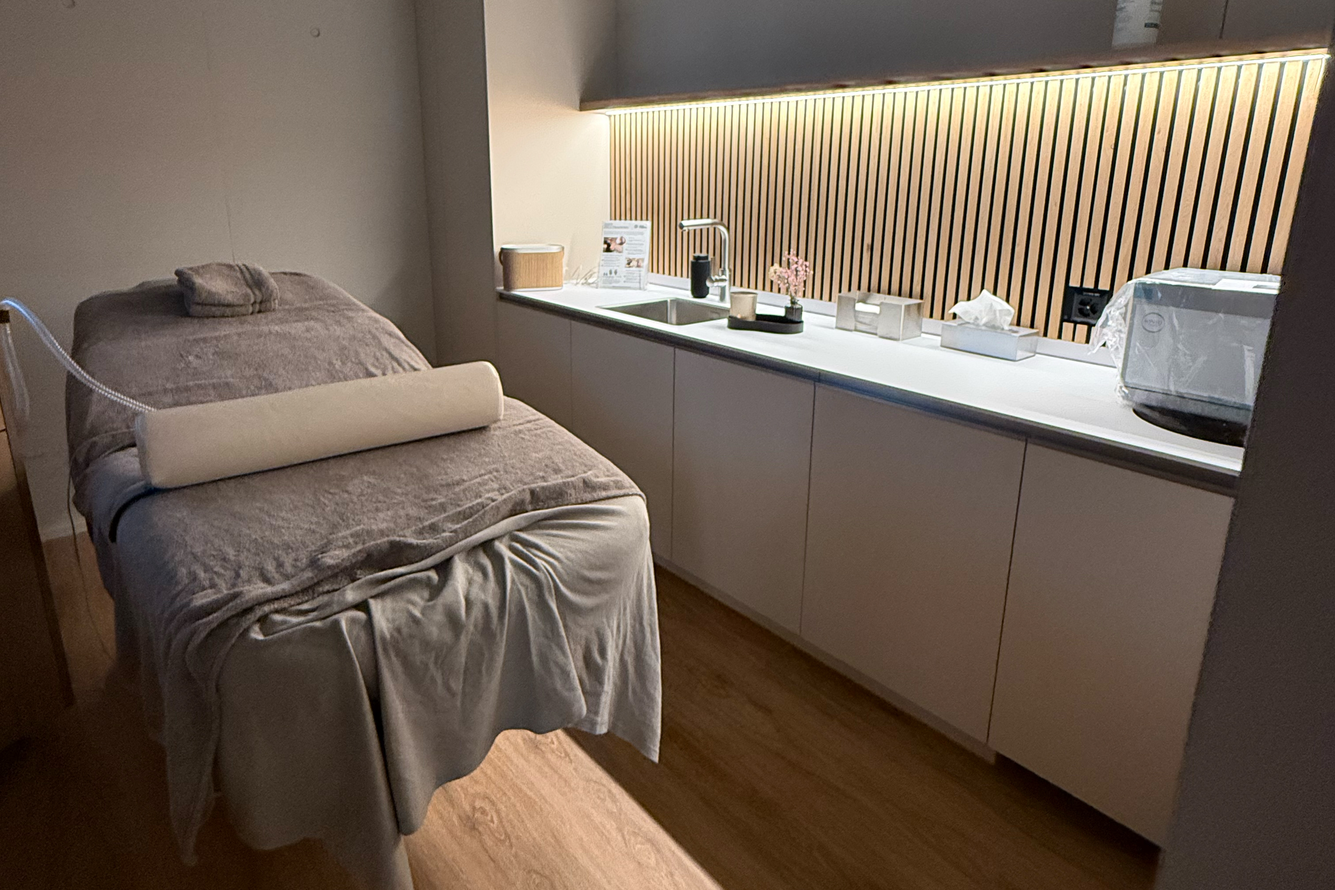
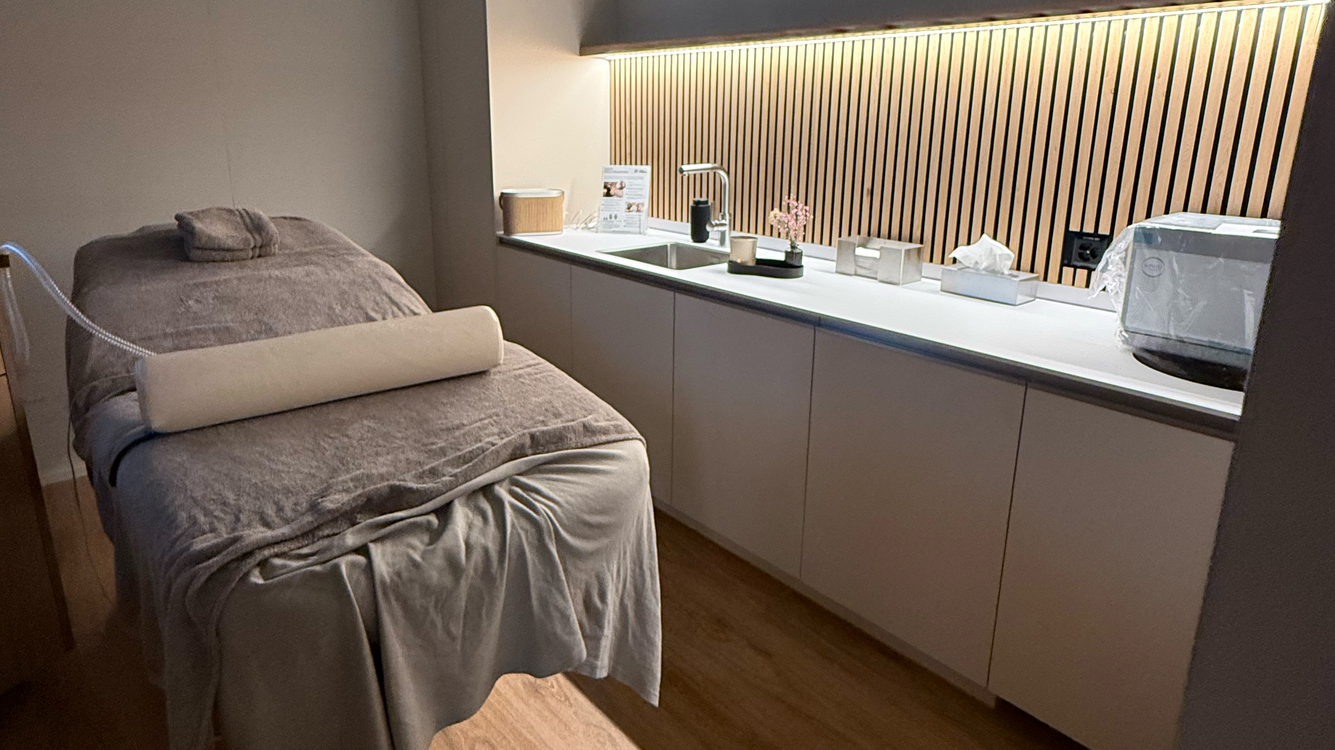
Optimierungen

diff --git a/index.html b/index.html
@@ -18,19 +18,18 @@
 
     <main class="page">
       <article class="container">
-        <!-- Audio-Teaser (zuoberst, vor der Oberzeile, OPTIONAL) -->
+        <!-- Audio-Teaser -->
         <!-- Audio-Beitrag -->
         <div class="audio-card content-block">
           <h3 class="audio-label">Anmoderation</h3>
           <audio class="audio" controls preload="metadata">
             <source src="assets/audio/Anmoderation_02.mp3" type="audio/mpeg"/>
-            Dein Browser unterstützt das Audio-Element nicht. 
+            Dein Browser unterstützt das Audio-Element nicht. Das Transkript befindet sich zuunterst auf der Seite.
           </audio>
         </div>
         <!-- Ende - Audio-Beitrag -->
         <!-- Ende - Audio-Teaser -->
 
-        <!-- !!! FIX !!! Reihenfolge der Inhalte im content-header bis inkl. erstem Textblock ist vorgegeben !!! FIX !!! -->
         <!-- Content-Header -->
         <header class="content-header">
           <!-- Oberzeile -->
@@ -50,15 +49,9 @@
           <!-- Autor:innenzeile-->
           <p class="author-line content-block">
             Ein Beitrag von <span class="author-name">Elena Ryser</span> und <span class="author-name">Cátia Mata Guerreiro</span>,
-            <time datetime="2026-02-13">27.04.2026</time>
+            <time datetime="2026-05-03">03.05.2026</time>
           </p>
           <!-- Ende - Autor:innenzeile-->
-
-          <!--<p class="content-block">
-            XXXXXXXXXXXXXXXXXXXXXXXXXXXXXXXXXXXXXXXXXXXXXXXXXXXXXXXXXXXXXXXXXXXXXXXXXXXXXXXXXXXXXXXXXXXXXXXXX
-            XXXXXXXXXXXXXXXXXXXXXXXXXXXXXXXXXXXXXXXXXXXXXXXXXXXXXXXXXXXXXXXXXXXXXXXXXXXXXXXXXXXXXXXXXXXXXXXX
-            XXXXXXXXXXXXXXXXXXXXXXXXXXXXXXXXXXXXXXXXXXXXXXXXXXXXXXXXXXXXXXXXXXXXXXXXXXXXXXXXXXXXXXXXXXXXXXXXX
-          </p>-->
         </header>
         <!-- Ende - Content-Header -->
 
@@ -67,7 +60,7 @@
           <img
             class="figure-image"
             src="assets/images/Dagi_Eisbaden_4.png"
-            alt="Platzhalterbild: Ersetze dieses Bild durch ein inhaltlich passendes Foto."
+            alt="Dagmar Blank beim Eisschwimmen im alten Rhein"
             loading="lazy" />
           <figcaption class="figure-caption">
             <strong>Dagi braucht keine technischen Gadgets. Sie kann sich selbst gut genug spüren.</strong> Foto: SFS Group Schweiz AG
@@ -75,25 +68,12 @@
         </figure>
         <!-- Ende - BLOCK: Einzelbild + Bildlegende -->
 
-        <!-- VARIABLE: Inhalte können ab hier in der Reihenfolge angepasst werden -->
-        <!-- BLOCK: Audio-Einspieler zwischen Autor:innenzeile und erstem Textblock -->
         <!-- Audio-Beitrag -->
-        <!--<div class="audio-card content-block">
-          <h3 class="audio-label">Audio-Einspieler</h3>
-          <audio class="audio" controls preload="metadata">
-            <source src="assets/audio/einspieler.mp3" type="audio/mpeg" />
-            Dein Browser unterstützt das Audio-Element nicht.
-          </audio>
-        </div>-->
-        <!-- Ende - Audio-Beitrag -->
-        <!-- Ende - BLOCK: Audio-Einspieler zwischen Autor:innenzeile und erstem Textblock -->
-
-         <!-- Audio-Beitrag -->
         <div class="audio-card content-block">
           <h3 class="audio-label">Eiskaltes Wasser</h3>
           <audio class="audio" controls preload="metadata">
             <source src="assets/audio/Wasser_Sound.mp3" type="audio/mpeg" />
-            Dein Browser unterstützt das Audio-Element nicht.
+            Dein Browser unterstützt das Audio-Element nicht. Das Transkript befindet sich zuunterst auf der Seite.
           </audio>
         </div>
         <!-- Ende - BLOCK: Zwischentitel + Textblock -->
@@ -111,7 +91,7 @@
           <h3 class="audio-label">Eisschwimmen – so funktioniert es</h3>
           <audio class="audio" controls preload="metadata">
             <source src="assets/audio/Audio_Dagi_Eisschwimmen_erklaeren_.mp3" type="audio/mpeg" />
-            Dein Browser unterstützt das Audio-Element nicht.
+            Dein Browser unterstützt das Audio-Element nicht. Das Transkript befindet sich zuunterst auf der Seite.
           </audio>
         </div>
         <!-- Ende - BLOCK: Zwischentitel + Textblock -->
@@ -121,7 +101,7 @@
           <img
             class="figure-image"
             src="assets/images/Dagi_Eisbaden_5.png"
-            alt="Platzhalterbild: Ersetze dieses Bild durch ein inhaltlich passendes Foto."
+            alt="Dagmar Blank mit ihren Arbeitskolleg:innen am Eisbaden"
             loading="lazy" />
           <figcaption class="figure-caption">
             <strong>Dagi (links im Bild) geht von November bis April mit ihren Arbeitskolleg:innen regelmässig im Alten Rhein Eisbaden. </strong> Foto: SFS Group Schweiz AG
@@ -151,13 +131,12 @@
             Nejc Hojc, ehemaliger Handball-Profisportler und heute Inhaber von «Active Longevity», sieht Longevity vor allem als eine proaktive Haltung. «Für uns ist Longevity kein Trend, sondern in erster Linie ein Mindset», sagt er.
           </p>
 
-           <!-- BLOCK: Audio O-Ton / Expert:in / Betroffene / Atmo -->
         <!-- Audio-Beitrag -->
         <div class="audio-card content-block">
           <h3 class="audio-label">Philosophie eines Profisportlers</h3>
           <audio class="audio" controls preload="metadata">
-            <source src="assets/audio/Active Longevity_Hojc.mp3" type="audio/mpeg" />
-            Dein Browser unterstützt das Audio-Element nicht.
+            <source src="assets/audio/Active_Longevity_Hojc.mp3" type="audio/mpeg" />
+            Dein Browser unterstützt das Audio-Element nicht. Das Transkript befindet sich zuunterst auf der Seite.
           </audio>
         </div>
 
@@ -170,27 +149,27 @@
         <section class="content-block text-block">
           <h2 class="subheadline">High-Tech gegen den biologischen Zerfall</h2>
           <!-- BLOCK: Einzelbild + Bildlegende -->
-        <figure class="content-block">
-          <img
-            class="figure-image"
-            src="assets/images/Behandlungsraum_Active_Longevity_1.jpg"
-            alt="Platzhalterbild: Ersetze dieses Bild durch ein inhaltlich passendes Foto."
-            loading="lazy" />
-          <figcaption class="figure-caption">
-            <strong>Hier werden Sauerstoffbehandlungen und Massagen durchgeführt.</strong> Foto: Elena Ryser
-          </figcaption>
-        </figure>
-        <!-- Ende - BLOCK: Einzelbild + Bildlegende -->
+          <figure class="content-block">
+            <img
+              class="figure-image"
+              src="assets/images/Behandlungsraum_Active_Longevity_1.jpg"
+              alt="Behandlungsraum im Active Longevity Center"
+              loading="lazy" />
+            <figcaption class="figure-caption">
+              <strong>Hier werden Sauerstoffbehandlungen und Massagen durchgeführt.</strong> Foto: Elena Ryser
+            </figcaption>
+          </figure>
+          <!-- Ende - BLOCK: Einzelbild + Bildlegende -->
           <p>
             Während Nejc Hojc das Fundament im Lebensstil sieht, geht Uwe Brodda, Therapieleiter im «Longevity Center 108», einen Schritt weiter in Richtung Technologie. In seinem Zentrum kommen Geräte zum Einsatz, die auf Energie, Schwingung und Frequenz basieren – ein Feld, das die klassische Medizin oft kritisch beäugt, in der Longevity-Szene aber als «Medizin der Zukunft» gilt.
           </p>
           <div class="audio-card content-block">
-          <h3 class="audio-label">Wo Longevity wirklich ansetzen sollte nach Brodda</h3>
-          <audio class="audio" controls preload="metadata">
-            <source src="assets/audio/108_Longevity_Center_01.mp3" type="audio/mpeg" />
-            Dein Browser unterstützt das Audio-Element nicht.
-          </audio>
-        </div>
+            <h3 class="audio-label">Wo Longevity wirklich ansetzen sollte nach Brodda</h3>
+            <audio class="audio" controls preload="metadata">
+              <source src="assets/audio/108_Longevity_Center_01.mp3" type="audio/mpeg" />
+              Dein Browser unterstützt das Audio-Element nicht.
+            </audio>
+          </div>
           <p>
             Dieser technologische Vorstoss ergänzt das Ziel, das auch Hojc verfolgt: Die grossen Volkskrankheiten gar nicht erst entstehen zu lassen. Für Hojc ist Longevity die Chance, jenen fünf chronischen Leiden vorzubeugen, an denen heute 80 bis 90 Prozent der Menschen sterben. Dazu gehören Herz-Kreislauf-Erkrankungen, Krebs, Demenz, Diabetes Typ II sowie degenerative Erkrankungen des Bewegungsapparats. Hier treffen sich die unterschiedlichen Ansätze: Weg von der Reparaturmedizin, hin zur proaktiven Erhaltung des Systems Mensch.
           </p>
@@ -209,7 +188,7 @@
             <img
               class="figure-image"
               src="assets/images/Eingang_Active_Longevity.png"
-              alt="Platzhalterbild: Ersetze dieses Bild durch ein inhaltlich passendes Foto."
+              alt="Eingangsbereich ins Active Longevity Zentrum in St. Gallen"
               loading="lazy" />
             <figcaption class="figure-caption">
               <strong>Hinter Türen wie diesen verspricht die Longevity-Industrie messbare Verjüngung.</strong> Foto: Elena Ryser
@@ -235,17 +214,13 @@
           </p>
         </section>
 
-       
-        <!-- Ende - Audio-Beitrag -->
-        <!-- Ende - BLOCK: Audio O-Ton / Expert:in / Betroffene / Atmo -->
-
-        <!-- BLOCK: Abschliessende Einschätzung (Audio, OPTIONAL) -->
+        <!-- BLOCK: Abschliessende Einschätzung -->
         <!-- Audio-Beitrag -->
         <div class="audio-card content-block">
-          <!--<h3 class="audio-label">Abschluss (Einschätzung / Fazit)</h3>-->
+          <h3 class="audio-label">Abmoderation</h3>
           <audio class="audio" controls preload="metadata">
             <source src="assets/audio/Abmoderation_03.mp3" type="audio/mpeg" />
-            Dein Browser unterstützt das Audio-Element nicht.
+            Dein Browser unterstützt das Audio-Element nicht. Das Transkript befindet sich zuunterst auf der Seite.
           </audio>
         </div>
         <!-- Ende - Audio-Beitrag -->
@@ -253,31 +228,34 @@
 
         <!-- BLOCK: Zusammenfassung oder Transkription für Menschen mit Hörbeeinträchtigung -->
         <details class="text-toggle">
-          <summary>Mehr lesen</summary>
+          <summary>Transkription für Menschen mit Hörbeeinträchtigung</summary>
+          <h4>Anmoderation</h4>
           <p>
-            <h4>Transkription – der Anmoderation</h4>
             Moderation: «Stellen Sie sich vor, es ist klirrend kalt. Sie stehen am Ufer des Alten Rheins und bereiten sich darauf vor, in das eisige Wasser zu steigen. Für die meisten ein Albtraum, für Dagi ist es geleitete Gesundheitsvorsorge. Sie ist Teil einer wachsenden Bewegung, die das Altern nicht mehr als schicksalhaftes Verfallen akzeptiert, sondern als einen Prozess, den man aktiv gestalten kann. <Longevity> – Langlebigkeit – heisst das Schlagwort. Doch steckt hinter dem Hype um Eisbaden, High-Tech-Diagnostik und Zell-Optimierung wirklich eine medizinische Revolution – oder vor allem ein lukratives Geschäftsmodell?»
           </p><br>
+
+          <h4>Eisschwimmen – so funktioniert es</h4>
           <p>
-            <h4>Transkription – Eisschwimmen – so funktioniert es</h4>
             «Wir gehen langsam, in Badekleidung und mit Mütze auf dem Kopf ins Wasser, und bleiben stehen, wenn das Wasser über Brusthöhe ist. Wir gehen langsam, ohne anzuhalten, atmen tief und ruhig und lassen das kalte Wasser auf uns wirken. Die Hände haben wir nicht unter Wasser, sondern wir halten sie über Wasser. Es ist wichtig, die erste Minute durchzuhalten. Danach gewöhnt sich der Körper daran bzw. arbeitet so, dass es gut erträglich ist. Wichtig ist, langsam zu beginnen und nicht zu lange im Wasser zu bleiben. Auch bei geübten ist die max. Minutenanzahl im Wasser die Temperatur, also max. 5 Min. bei 5 Grad Wassertemperatur. Wenn man wieder rauskommt, ist die Haut sehr rot, aber man merkt, wie der Körper und die Durchblutung arbeitet. Man fühlt sich danach einfach gut.»
           </p><br>
+
+          <h4>Philosohie eines Profisportlers</h4>
           <p>
-            <h4>Transkription – Philosohie eines Profisportlers</h4>
             «Meine Philosophie im Leben ist: Wenn etwas wichtig ist, must du dementsprechend Energie, Zeit und Ressourcen in das investieren.»
           </p><br>
+
+          <h4>Wo Longevity wirklich ansetzen sollte nach Brodda</h4>
           <p>
-            <h4>Transkription – Wo Longevity wirklich ansetzen sollte nach Brodda</h4>
             «Das ist die Medizin der Zukunft. Dass du nicht erst behandelst, wenn das Kind in den Brunnen gefallen ist, sondern wirklich frühzeitig anfängst. Wir arbeiten in der Quantenphysik mit Informationen und Energie, um die Zellen wieder in die richtige Schwingung zu bringen.»
           </p><br>
+
+          <h4>Fazit: Es gibt nicht die eine Lösung</h4>
           <p>
-            <h4>Transkription – Fazit: Es gibt nicht die eine Lösung</h4>
             Es gibt keine abschliessende Antwort darauf, worin die Zukunft der Gesundheit liegt. Ob in einer App, einer Kältekammer oder schlicht in der Disziplin des Alltags – das bleibt offen. Die Grenze zwischen revolutionärer Vorsorge und geschicktem Marketing fliesst so unaufhörlich, wie das Wasser des Alten Rheins.
           </p>
         </details>
         <!--Ende - BLOCK: Zusammenfassung oder Transkription für Menschen mit Hörbeeinträchtigung -->
 
-        <!-- Footer ist OPTIONAL -->
         <footer class="article-footer">
           <p class="small">
             <span class="copyleft">©</span> 2026 – Elena Ryser und Cátia Mata Guerreiro.
